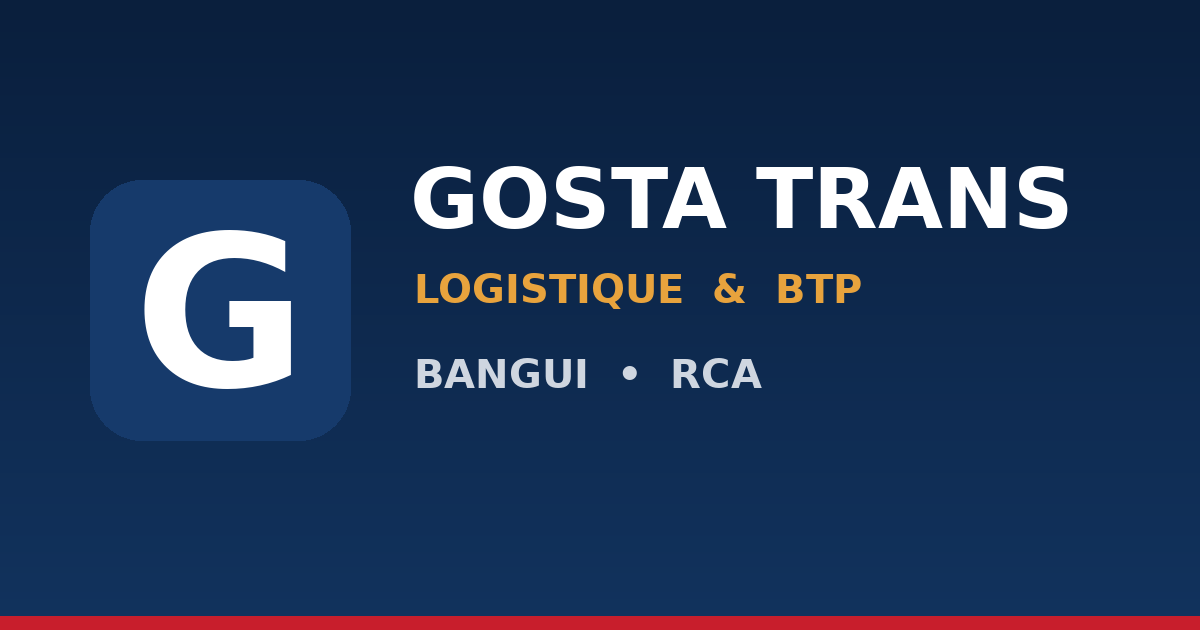
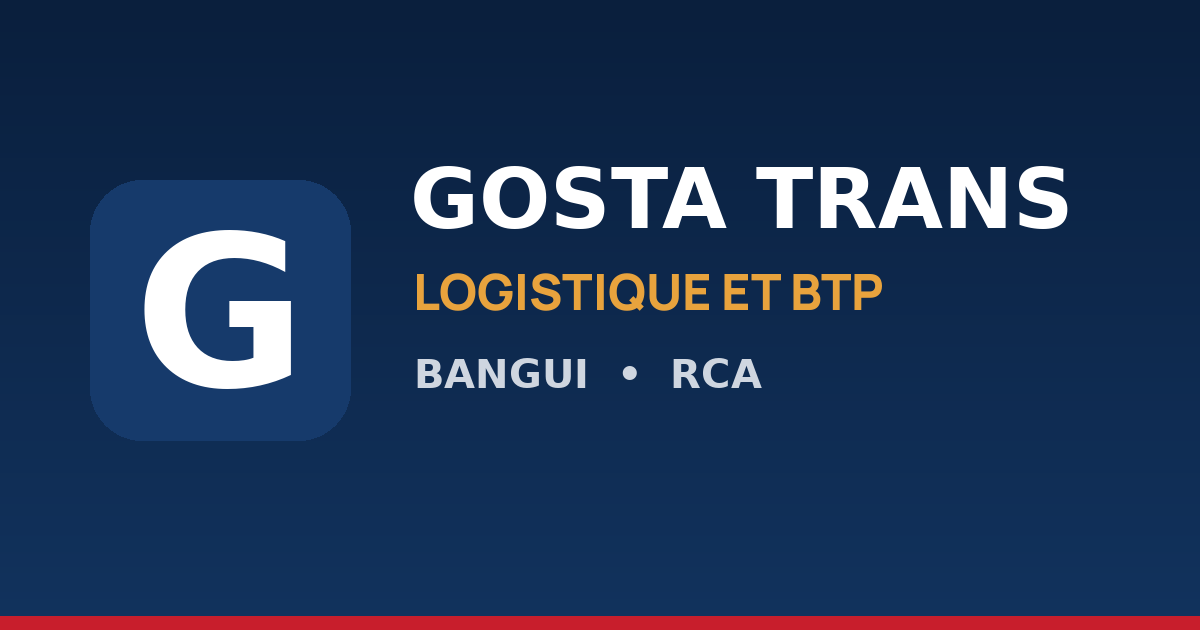
Complète le nom sur les blocs admin et régénère l'image Open Graph
La sidebar du dashboard et la carte de connexion affichaient le nom seul
« GOSTA TRANS » : une ligne « Logistique et BTP » s'ajoute sous le logo, avec
le même traitement typographique que le footer public.

L'image Open Graph (1200×630) imprimait en dur « LOGISTIQUE & BTP ». La
bande de texte est effacée, le fond du dégradé vertical est reconstruit
ligne à ligne pour éviter toute couture, et la nouvelle ligne est rendue en
Manrope ExtraBold 50 px, or #E8A33D, calée sur l'ancien bord gauche/haut —
icône, ligne « GOSTA TRANS » et bande rouge inchangées.

🤖 Generated with Codebuff

Changed region(s): [[0.3392, 0.4222, 0.74, 0.5127]]

diff --git a/components/admin/AuthCard.tsx b/components/admin/AuthCard.tsx
@@ -17,6 +17,9 @@ export default function AuthCard({
             <span className="font-display font-extrabold text-2xl tracking-wide text-[var(--navy-deep)]">
               GOSTA <span className="text-[var(--red)]">TRANS</span>
             </span>
+            <p className="font-display text-[12.5px] uppercase tracking-[0.18em] text-[var(--navy-deep)] mt-1">
+              Logistique et BTP
+            </p>
             <p className="font-mono text-[11px] uppercase tracking-[0.2em] text-[var(--steel)] mt-1">
               {subtitle}
             </p>

diff --git a/components/admin/AdminShell.tsx b/components/admin/AdminShell.tsx
@@ -81,6 +81,9 @@ export default function AdminShell({
             <span className="font-display text-xl font-extrabold tracking-wide">
               GOSTA <span className="text-[var(--red)]">TRANS</span>
             </span>
+            <span className="mt-1 block font-display text-[12.5px] uppercase tracking-[0.18em] text-white/75">
+              Logistique et BTP
+            </span>
             <span className="mt-1 block font-mono text-[11px] uppercase tracking-[0.2em] text-[var(--amber)]">
               Dashboard admin
             </span>
